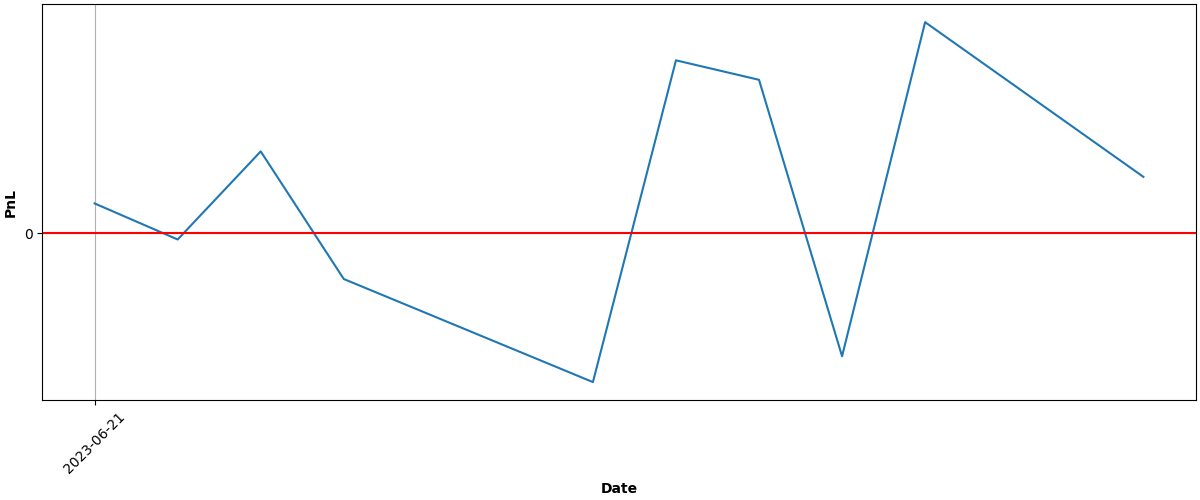
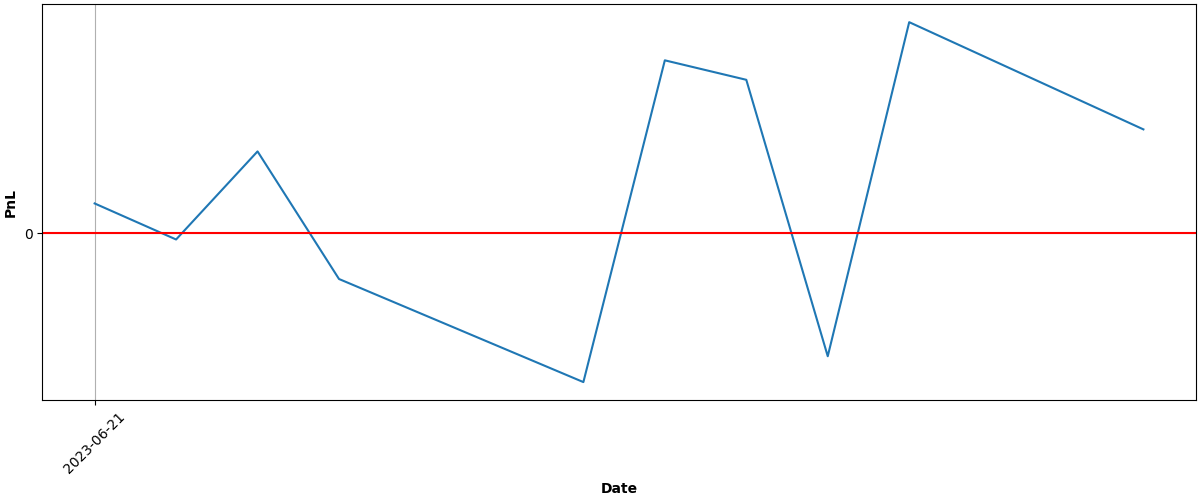
Automated Buy At Tue Jul  4 15:04:43 UTC 2023 Run ID 5456181305

diff --git a/README.md b/README.md
@@ -68,9 +68,9 @@ Results
 
 | Asset | Average Price | Current Price | ROI | 📈 |
 | --- | --- | --- | --- | --- |
-| FNGU | $181.973768153 | $190.55 | 4.71% | &#128994;&#128515; |
-| SVIX | $26.547475 | $28.05 | 5.66% | &#128994;&#128515; |
-| **Total** |  |  | **5.20%** | &#128994;&#128518; |
+| FNGU | $181.973768153 | $191.92 | 5.47% | &#128994;&#128515; |
+| SVIX | $26.547475 | $28.19 | 6.19% | &#128994;&#128515; |
+| **Total** |  |  | **5.84%** | &#128994;&#128518; |
 
 ### PnL over time (calculations may not be accurate):
 
@@ -81,6 +81,6 @@ Results
 ---
 
 
-Updated at 2023-07-03 15:05:03
+Updated at 2023-07-04 15:05:01
 
 
